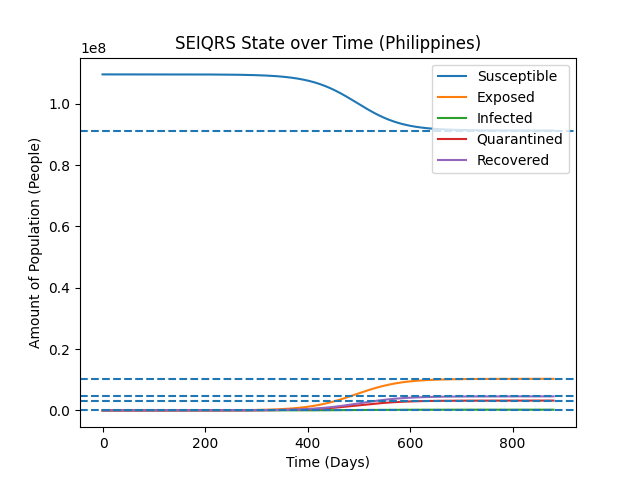
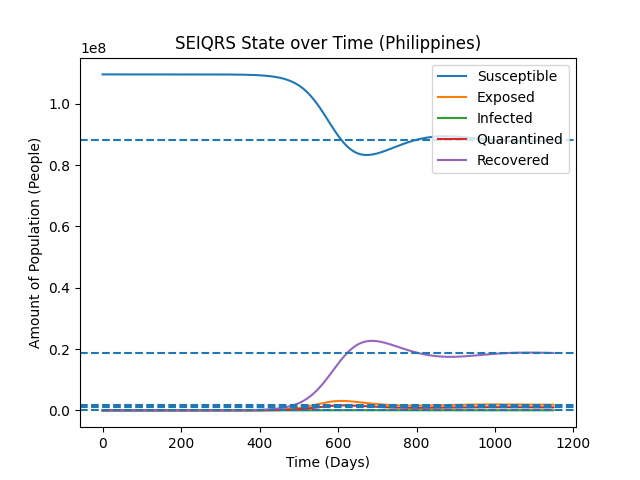
School Regression Testing

diff --git a/fitting/data_fit.py b/fitting/data_fit.py
@@ -27,30 +27,31 @@ agegroup_lookup = dict(zip(agegroups['Location'], agegroups[['0_9', '10_19', '20
 # parameters
 country = "Philippines"
 country_data = covid_data[covid_data["Location"] == "Philippines"]
-data = country_data["New_cases"].values
+data = country_data["Cumulative_cases"].values
 times = country_data["Date_reported"].values
 plt.title(f'New Cases COVID-19 Data ({country})')
 plt.xlabel(f"Time in Days ({datetime.datetime.utcfromtimestamp(times[0].tolist()/1e9).date()} - {datetime.datetime.utcfromtimestamp(times[-1].tolist()/1e9).date()})")
 plt.ylabel('New Cases')
 plt.plot(data)
 plt.autoscale()
-plt.savefig(f'fitting\\new pics\{country}_new_cases.png')
-plt.show(block=False)
+plt.savefig(rf'fitting//new pics//{country}_new_cases.png')
+# plt.show(block=False)
 # data = data[:len(data)//3]
 # start at nth day
 saved_data = data
-data = data[:200]
+data = data[:450]
+times = times[:450]
+
 # Moving Average
-def moving_average(a, n=3) :
-    ret = np.cumsum(a, dtype=float)
-    ret[n:] = ret[n:] - ret[:-n]
-    return ret[n - 1:] / n
-data = moving_average(data, 20)
-times = times[:200]
+# def moving_average(a, n=3) :
+#     ret = np.cumsum(a, dtype=float)
+#     ret[n:] = ret[n:] - ret[:-n]
+#     return ret[n - 1:] / n
+# data = moving_average(data, 20)
 print(len(data))
 data -= data[0] # start cumulative sum at 0
 agegroups = agegroup_lookup["Philippines"]
-outbreak_shift = 250  # shift the outbreak by this many days (negative values are allowed)
+outbreak_shift = 25  # shift the outbreak by this many days (negative values are allowed)
 params_init_min_max = {"beta": (0.9, 0.1, 2), "zeta": (1./10, 1./50, 1), "mu": (1./60, 1./300, 1./5)}  # form: {parameter: (initial guess, minimum value, max value)}
      
 
@@ -64,18 +65,19 @@ x_data = np.linspace(0, days - 1, days, dtype=int)  # x_data is just [0, 1, ...,
 
 # Given Model Parameters (Based on COVID-19 Research Data)
 phi = 1/9
-gamma = 1/3
-kappa = 1/3
+gamma = 1/5
+kappa = 1/5
+mu = 1/90
 
 # Must Fit Beta, Zeta, Mu
-def fitter(x, beta, zeta, mu):
+def fitter(x, beta, zeta):
     ret = Model(days, agegroups, beta, phi, zeta, gamma, kappa, mu)
     exposed = ret[3]
     # print(deaths_predicted)
     # print(x)
 
     # print()
-    return phi*exposed # Inflow of Infections aka New Cases
+    return (phi*exposed).cumsum() # Inflow of Infections aka New Cases
 
 
 # Fit the model
@@ -93,14 +95,13 @@ result = mod.fit(y_data, params, method=fit_method, x=x_data)
      
 plt.figure()
 result.plot_fit(datafmt="-", xlabel=f"Time in Days ({datetime.datetime.utcfromtimestamp(times[0].tolist()/1e9).date()} - {datetime.datetime.utcfromtimestamp(times[-1].tolist()/1e9).date()}) (Outbreak Shift = {outbreak_shift})", ylabel="New Cases", title=f"Fitting SEIQRS Model to {country} COVID-19 Data")
-plt.savefig(f"fitting\\new pics\\fit_{country}.png")
+plt.savefig(rf"fitting//new pics//fit_{country}.png")
 print(result.best_values)
-plt.show(block=True)
+# plt.show(block=True)
 
 # Using the fitted parameters to model the future outbreak
 beta = result.best_values["beta"]
 zeta = result.best_values["zeta"]
-mu = result.best_values["mu"]
 t, N, S, E, I, Q, R, r_vals = Model(days+700, agegroups, beta, phi, zeta, gamma, kappa, mu)
 
 # Undo Modelling Outbreak Shift
@@ -132,8 +133,8 @@ plt.title(f'Reproductive Number over Time ({country})')
 plt.xlabel('Time (Days)')
 plt.ylabel('Reproductive Number')
 plt.autoscale()
-plt.savefig(f'fitting\\new pics\{country}_R_plot.png')
-plt.show(block=False)
+plt.savefig(rf'fitting//new pics/{country}_R_plot.png')
+# plt.show(block=False)
 
 #Plot Stacked Area Graph
 plt.figure()
@@ -143,8 +144,8 @@ plt.title(f'Stacked SEIQRS States over Time ({country})')
 plt.xlabel('Time (Days)')
 plt.ylabel('Amount of Population (People)')
 plt.autoscale()
-plt.savefig(f'fitting\\new pics\{country}_Stack.png')
-plt.show(block=False)
+plt.savefig(rf'fitting//new pics/{country}_Stack.png')
+# plt.show(block=False)
 
 #Plot Line Graph
 plt.figure()
@@ -163,8 +164,8 @@ plt.title(f'SEIQRS State over Time ({country})')
 plt.xlabel('Time (Days)')
 plt.ylabel('Amount of Population (People)')
 plt.autoscale()
-plt.savefig(f'fitting\\new pics\{country}.png')
-plt.show(block=False)
+plt.savefig(rf'fitting//new pics/{country}.png')
+# plt.show(block=False)
 
 #Plot Cumulative Infections Predicted
 t, N, S, E, I, Q, R, r_vals = Model(len(saved_data)+outbreak_shift, agegroups, beta, phi, zeta, gamma, kappa, mu)
@@ -181,11 +182,11 @@ r_vals = r_vals[outbreak_shift:]
 
 plt.figure()
 plt.plot(t, saved_data, label = "Actual New Cases")
-plt.plot(t, phi*E, label = "Predicted New Cases")
+plt.plot(t, (phi*E).cumsum(), label = "Predicted New Cases")
 plt.legend(loc='upper left')
 plt.title(f'Predicted New Cases over Time ({country})')
 plt.xlabel('Time (Days)')
 plt.ylabel('New Cases (People)')
 plt.autoscale()
-plt.savefig(f'fitting\\new pics\{country}_New_cases.png')
-plt.show()
+plt.savefig(rf'fitting//new pics//{country}_predicted_new_cases.png')
+# plt.show()
